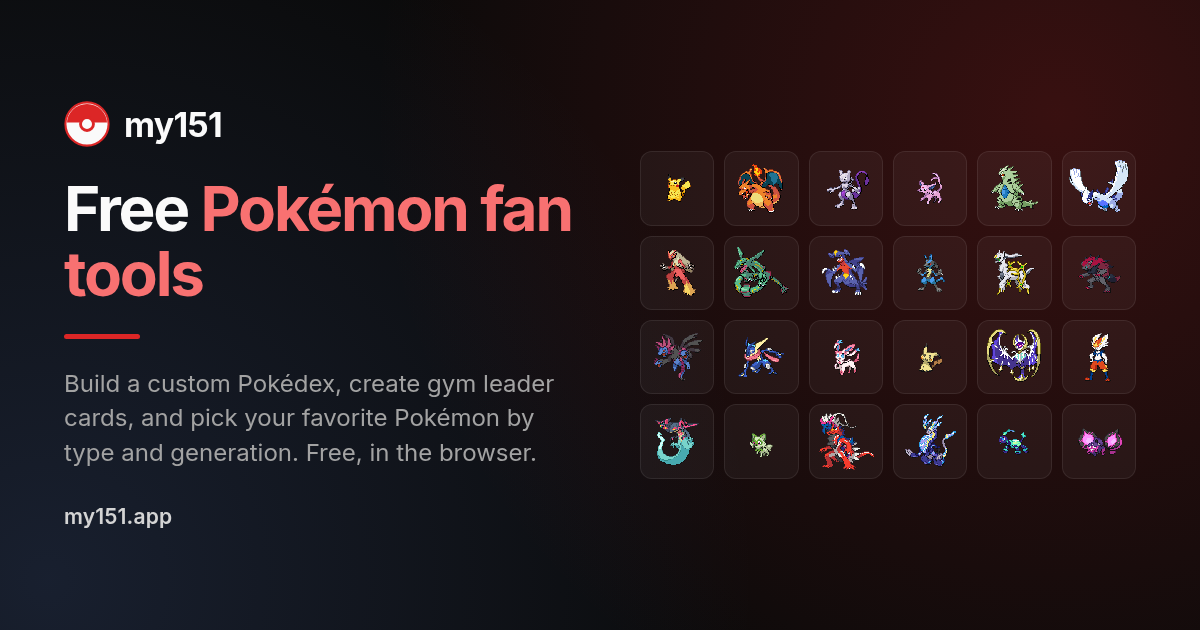
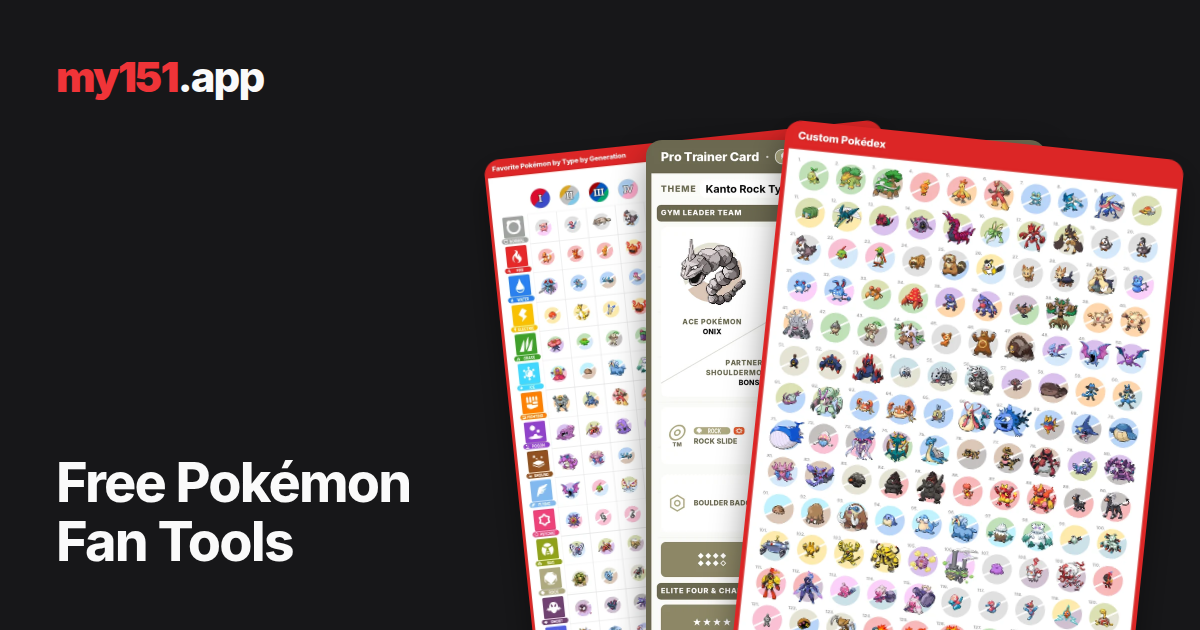
Add a tool-style hub share image and text-free search images
The hub share image now uses the tool-page template: my151.app at top
left, the title at bottom left, and a fan of one export per tool (picks
grid, Brock trainer card, Pokédex grid). generate-og-image.mjs renders it
as the `hub` entry with its own fan geometry, so the historical hub
renderer is removed. The three tool images render byte-identical.

Google does not show a result image for my151 today. Its image guide asks
for a nominated image with no text or logo, and our share images carry
titles. Each indexable page now names a 1200x1200 crop of its own export
in its JSON-LD (image plus mainEntityOfPage) and allows large previews
with max-image-preview:large. generate-search-images.py crops the native
captures from capture-tool-art.mjs, which gains an outline-free Dex grid
target. The hub's og:image gains ?v=2 so cached previews refresh.

diff --git a/index.html b/index.html
@@ -7,6 +7,7 @@
     <title>my151 | Pokémon Tools: Pokédex, Gym Leaders &amp; Favorites</title>
     <meta name="description" content="Free Pokémon fan tools: build a custom regional Pokédex, create a full league of custom gym leader teams, or pick favorites by type and generation. Export PNGs." />
     <link rel="canonical" href="https://my151.app/" />
+    <meta name="robots" content="max-image-preview:large" />
     <!-- The hub's largest paint on a phone is the first card's front screenshot.
          Without this the browser finds it only after the JavaScript renders the
          hub. Phones only: on a desktop the largest paint is the heading, and the
@@ -30,16 +31,16 @@
     <meta property="og:title" content="my151 | Pokémon Tools: Pokédex, Gym Leaders &amp; Favorites" />
     <meta property="og:description" content="Free Pokémon fan tools: build a custom regional Pokédex, create a full league of custom gym leader teams, or pick favorites by type and generation. Export PNGs." />
     <meta property="og:url" content="https://my151.app/" />
-    <meta property="og:image" content="https://my151.app/og-hub.png" />
+    <meta property="og:image" content="https://my151.app/og-hub.png?v=2" />
     <meta property="og:image:width" content="1200" />
     <meta property="og:image:height" content="630" />
-    <meta property="og:image:alt" content="my151 — a grid of Pokémon sprites beside the heading “Free Pokémon fan tools”." />
+    <meta property="og:image:alt" content="my151 Free Pokémon Fan Tools: a favorite Pokémon chart, a Brock trainer card and a custom regional Pokédex export, fanned." />
 
     <meta name="twitter:card" content="summary_large_image" />
     <meta name="twitter:title" content="my151 | Pokémon Tools: Pokédex, Gym Leaders &amp; Favorites" />
     <meta name="twitter:description" content="Free Pokémon fan tools: build a custom regional Pokédex, create a full league of custom gym leader teams, or pick favorites by type and generation. Export PNGs." />
-    <meta name="twitter:image" content="https://my151.app/og-hub.png" />
-    <meta name="twitter:image:alt" content="my151 — a grid of Pokémon sprites beside the heading “Free Pokémon fan tools”." />
+    <meta name="twitter:image" content="https://my151.app/og-hub.png?v=2" />
+    <meta name="twitter:image:alt" content="my151 Free Pokémon Fan Tools: a favorite Pokémon chart, a Brock trainer card and a custom regional Pokédex export, fanned." />
 
     <script type="application/ld+json">
       {
@@ -47,6 +48,8 @@
         "@type": "WebSite",
         "name": "my151",
         "url": "https://my151.app/",
+        "mainEntityOfPage": "https://my151.app/",
+        "image": { "@type": "ImageObject", "url": "https://my151.app/search/hub.jpg", "width": 1200, "height": 1200 },
         "description": "Free Pokémon fan tools: build a custom regional Pokédex, create a full league of custom gym leader teams, or pick favorites by type and generation. Export PNGs.",
         "inLanguage": "en"
       }

diff --git a/favorite-pokemon-picker.html b/favorite-pokemon-picker.html
@@ -7,6 +7,7 @@
     <title>Favorite Pokémon Picker by Type and Generation | my151</title>
     <meta name="description" content="Pick your favorite Pokémon of each type and generation. Fill the grid, see detailed stats on which sorts of Pokémon you tend to prefer, then export the full grid or summary view as a PNG. Free, no account." />
     <link rel="canonical" href="https://my151.app/favorite-pokemon-picker" />
+    <meta name="robots" content="max-image-preview:large" />
 
     <meta property="og:type" content="website" />
     <meta property="og:locale" content="en_US" />
@@ -31,6 +32,8 @@
       "@type": "WebApplication",
       "name": "Favorite Pokémon Picker by Type and Generation",
       "url": "https://my151.app/favorite-pokemon-picker",
+      "mainEntityOfPage": "https://my151.app/favorite-pokemon-picker",
+      "image": { "@type": "ImageObject", "url": "https://my151.app/search/favorite-pokemon-picker.jpg", "width": 1200, "height": 1200 },
       "description": "Pick your favorite Pokémon of each type and generation. Fill the grid, see detailed stats on which sorts of Pokémon you tend to prefer, then export the full grid or summary view as a PNG. Free, no account.",
       "applicationCategory": "EntertainmentApplication",
       "operatingSystem": "Any",

diff --git a/custom-gym-leader.html b/custom-gym-leader.html
@@ -7,6 +7,7 @@
     <title>Custom Gym Leader &amp; Trainer Card Maker | my151</title>
     <meta name="description" content="Custom gym leader maker: pick a signature Pokémon, badge, &amp; team, then add an Elite Four &amp; Champion to your league. Export them as trainer cards." />
     <link rel="canonical" href="https://my151.app/custom-gym-leader" />
+    <meta name="robots" content="max-image-preview:large" />
 
     <meta property="og:type" content="website" />
     <meta property="og:locale" content="en_US" />
@@ -31,6 +32,8 @@
         "@type": "WebApplication",
         "name": "Custom Gym Leader & Trainer Card Maker",
         "url": "https://my151.app/custom-gym-leader",
+        "mainEntityOfPage": "https://my151.app/custom-gym-leader",
+        "image": { "@type": "ImageObject", "url": "https://my151.app/search/custom-gym-leader.jpg", "width": 1200, "height": 1200 },
         "description": "Custom gym leader maker: pick a signature Pokémon, badge, & team, then add an Elite Four & Champion to your league. Export them as trainer cards.",
         "applicationCategory": "GameApplication",
         "operatingSystem": "Any",

diff --git a/pokedex-builder.html b/pokedex-builder.html
@@ -7,6 +7,7 @@
     <title>Custom Regional Pokédex Builder | my151</title>
     <meta name="description" content="Custom Pokédex builder: fill a region template of Pokédex archetypes, compare type distribution vs. the National Dex, and export a PNG." />
     <link rel="canonical" href="https://my151.app/pokedex-builder" />
+    <meta name="robots" content="max-image-preview:large" />
 
     <meta property="og:type" content="website" />
     <meta property="og:locale" content="en_US" />
@@ -32,6 +33,8 @@
         "name": "Custom Pokédex Builder",
         "alternateName": "my151 Pokédex builder",
         "url": "https://my151.app/pokedex-builder",
+        "mainEntityOfPage": "https://my151.app/pokedex-builder",
+        "image": { "@type": "ImageObject", "url": "https://my151.app/search/pokedex-builder.jpg", "width": 1200, "height": 1200 },
         "description": "Custom Pokédex builder: fill a region template of Pokédex archetypes, compare type distribution vs. the National Dex, and export a PNG.",
         "applicationCategory": "GameApplication",
         "operatingSystem": "Any",

diff --git a/scripts/generate-search-images.py b/scripts/generate-search-images.py
@@ -1,0 +1,61 @@
+#!/usr/bin/env python3
+"""Crop text-free search images from native export captures.
+
+Google picks the image beside a search result itself. Its image guide asks for
+an image with no text or logo, so each page names a crop of its own export in
+the page's JSON-LD. Each crop is 600x600 native pixels, scaled 2x with nearest
+neighbour so the sprites stay sharp.
+
+Also writes public/og-sources/dex-grid.webp, the Dex sheet of the hub share image.
+
+  flock /tmp/my151-browser.lock node scripts/capture-tool-art.mjs league favorites dex-plain
+  python3 scripts/generate-search-images.py --source-dir docs/evidence/tool-art-rebake/local
+"""
+from pathlib import Path
+from PIL import Image
+import argparse
+
+root = Path(__file__).resolve().parent.parent
+parser = argparse.ArgumentParser(description=__doc__)
+parser.add_argument('--source-dir', default='docs/evidence/tool-art-rebake/local')
+parser.add_argument('--out-dir', default='public/search')
+args = parser.parse_args()
+source = root / args.source_dir
+out = root / args.out_dir
+
+SIZE = 600
+# (capture, left, top): a grid area of each export with no headings or labels.
+CROPS = {
+    'dex': ('dex-plain', 24, 78),
+    'favorites': ('picker-full-horizontal', 277, 238),
+    'trainer-card': ('trainer-brock', 276, 383),
+}
+PAGES = {
+    'hub': 'dex',
+    'pokedex-builder': 'dex',
+    'custom-gym-leader': 'trainer-card',
+    'favorite-pokemon-picker': 'favorites',
+}
+
+
+def crop(name):
+    capture, left, top = CROPS[name]
+    return Image.open(source / f'{capture}.png').convert('RGB').crop((left, top, left + SIZE, top + SIZE))
+
+
+def save(image, name):
+    path = out / f'{name}.jpg'
+    image.save(path, 'JPEG', quality=90, subsampling=0, optimize=True)
+    print(f'Wrote {path} {image.size[0]}x{image.size[1]} {path.stat().st_size} bytes')
+
+
+out.mkdir(parents=True, exist_ok=True)
+crops = {name: crop(name) for name in CROPS}
+for page, name in PAGES.items():
+    save(crops[name].resize((SIZE * 2, SIZE * 2), Image.Resampling.NEAREST), page)
+
+grid = Image.open(source / 'dex-plain.png').convert('RGBA')
+sheet = grid.resize((800, round(grid.height * 800 / grid.width)), Image.Resampling.LANCZOS)
+destination = root / 'public/og-sources/dex-grid.webp'
+sheet.save(destination, 'WEBP', quality=86, method=6)
+print(f'Wrote {destination} {sheet.size[0]}x{sheet.size[1]} {destination.stat().st_size} bytes')
